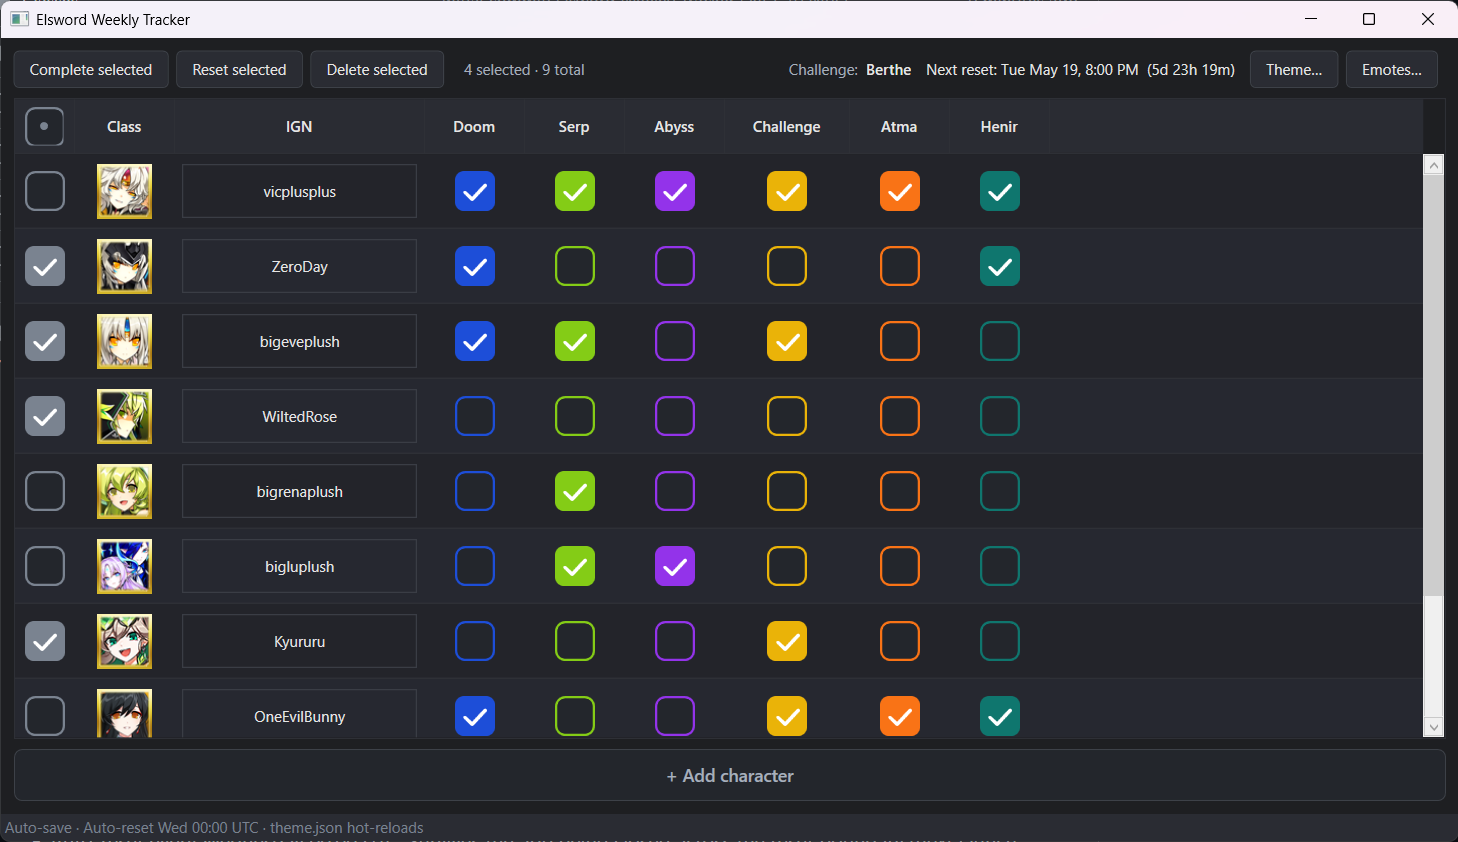
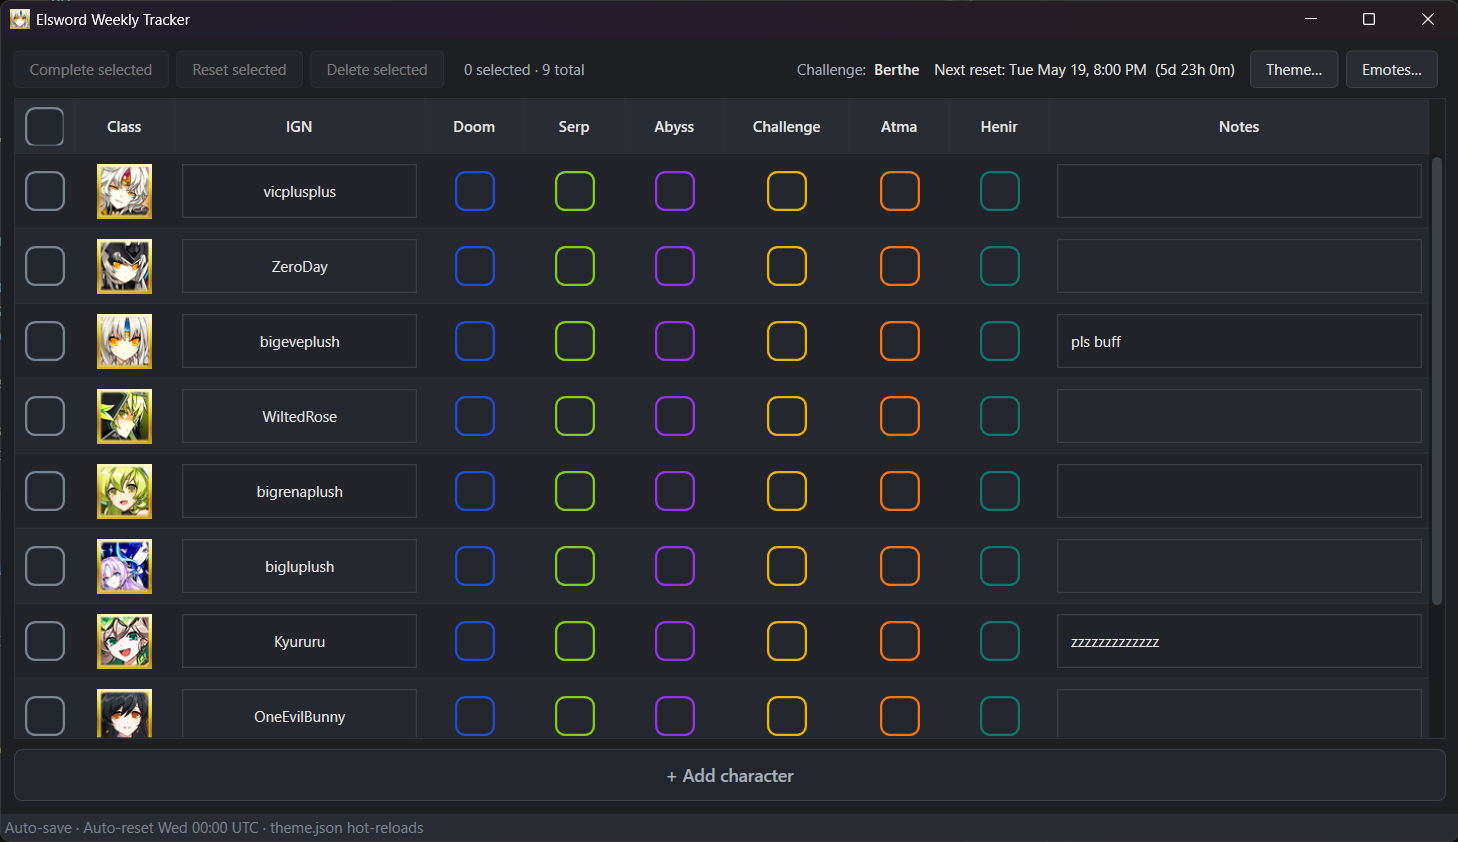
Dark title bar (DWM) + dark scrollbar style; refresh screenshot
- MainWindow.OnSourceInitialized calls DwmSetWindowAttribute with
  DWMWA_USE_IMMERSIVE_DARK_MODE so the Win11 title bar matches the
  app's dark chrome (silent no-op on older Windows)
- New Window-scoped Style TargetType="ScrollBar" with rounded thumb
  and dark track, plus matching Thumb / page-button styles. Replaces
  the bright default Aero rail that clashed with the grid
- docs/screenshot.png updated to reflect the current look (Notes
  column populated, dark titlebar)

diff --git a/ElsTracker/MainWindow.xaml b/ElsTracker/MainWindow.xaml
@@ -13,6 +13,102 @@
         <BooleanToVisibilityConverter x:Key="BoolToVis"/>
         <conv:InverseBoolToVisibilityConverter x:Key="InvBoolToVis"/>
 
+        <!-- Dark scrollbar thumb -->
+        <Style x:Key="DarkScrollThumb" TargetType="Thumb">
+            <Setter Property="OverridesDefaultStyle" Value="True"/>
+            <Setter Property="Focusable" Value="False"/>
+            <Setter Property="IsTabStop" Value="False"/>
+            <Setter Property="Template">
+                <Setter.Value>
+                    <ControlTemplate TargetType="Thumb">
+                        <Border x:Name="Body" Background="#3D4148" CornerRadius="4" Margin="2"/>
+                        <ControlTemplate.Triggers>
+                            <Trigger Property="IsMouseOver" Value="True">
+                                <Setter TargetName="Body" Property="Background" Value="#525762"/>
+                            </Trigger>
+                            <Trigger Property="IsDragging" Value="True">
+                                <Setter TargetName="Body" Property="Background" Value="#6B7180"/>
+                            </Trigger>
+                        </ControlTemplate.Triggers>
+                    </ControlTemplate>
+                </Setter.Value>
+            </Setter>
+        </Style>
+
+        <!-- Transparent page-up/page-down repeat buttons -->
+        <Style x:Key="DarkScrollPageButton" TargetType="RepeatButton">
+            <Setter Property="OverridesDefaultStyle" Value="True"/>
+            <Setter Property="Focusable" Value="False"/>
+            <Setter Property="IsTabStop" Value="False"/>
+            <Setter Property="Background" Value="Transparent"/>
+            <Setter Property="Template">
+                <Setter.Value>
+                    <ControlTemplate TargetType="RepeatButton">
+                        <Border Background="Transparent"/>
+                    </ControlTemplate>
+                </Setter.Value>
+            </Setter>
+        </Style>
+
+        <!-- Dark scrollbar -->
+        <Style TargetType="ScrollBar">
+            <Setter Property="Background" Value="#1A1C20"/>
+            <Setter Property="Foreground" Value="#3D4148"/>
+            <Setter Property="SnapsToDevicePixels" Value="True"/>
+            <Style.Triggers>
+                <Trigger Property="Orientation" Value="Vertical">
+                    <Setter Property="Width" Value="12"/>
+                    <Setter Property="MinWidth" Value="12"/>
+                    <Setter Property="Template">
+                        <Setter.Value>
+                            <ControlTemplate TargetType="ScrollBar">
+                                <Grid Background="{TemplateBinding Background}">
+                                    <Track x:Name="PART_Track" IsDirectionReversed="True">
+                                        <Track.DecreaseRepeatButton>
+                                            <RepeatButton Command="ScrollBar.PageUpCommand"
+                                                          Style="{StaticResource DarkScrollPageButton}"/>
+                                        </Track.DecreaseRepeatButton>
+                                        <Track.Thumb>
+                                            <Thumb Style="{StaticResource DarkScrollThumb}"/>
+                                        </Track.Thumb>
+                                        <Track.IncreaseRepeatButton>
+                                            <RepeatButton Command="ScrollBar.PageDownCommand"
+                                                          Style="{StaticResource DarkScrollPageButton}"/>
+                                        </Track.IncreaseRepeatButton>
+                                    </Track>
+                                </Grid>
+                            </ControlTemplate>
+                        </Setter.Value>
+                    </Setter>
+                </Trigger>
+                <Trigger Property="Orientation" Value="Horizontal">
+                    <Setter Property="Height" Value="12"/>
+                    <Setter Property="MinHeight" Value="12"/>
+                    <Setter Property="Template">
+                        <Setter.Value>
+                            <ControlTemplate TargetType="ScrollBar">
+                                <Grid Background="{TemplateBinding Background}">
+                                    <Track x:Name="PART_Track">
+                                        <Track.DecreaseRepeatButton>
+                                            <RepeatButton Command="ScrollBar.PageLeftCommand"
+                                                          Style="{StaticResource DarkScrollPageButton}"/>
+                                        </Track.DecreaseRepeatButton>
+                                        <Track.Thumb>
+                                            <Thumb Style="{StaticResource DarkScrollThumb}"/>
+                                        </Track.Thumb>
+                                        <Track.IncreaseRepeatButton>
+                                            <RepeatButton Command="ScrollBar.PageRightCommand"
+                                                          Style="{StaticResource DarkScrollPageButton}"/>
+                                        </Track.IncreaseRepeatButton>
+                                    </Track>
+                                </Grid>
+                            </ControlTemplate>
+                        </Setter.Value>
+                    </Setter>
+                </Trigger>
+            </Style.Triggers>
+        </Style>
+
         <!-- Themed weekly checkbox -->
         <Style x:Key="WeeklyCheck" TargetType="CheckBox">
             <Setter Property="HorizontalAlignment" Value="Center"/>

diff --git a/ElsTracker/MainWindow.xaml.cs b/ElsTracker/MainWindow.xaml.cs
@@ -1,8 +1,10 @@
+using System.Runtime.InteropServices;
 using System.Windows;
 using System.Windows.Controls;
 using System.Windows.Controls.Primitives;
 using System.Windows.Data;
 using System.Windows.Input;
+using System.Windows.Interop;
 using System.Windows.Media;
 using System.Windows.Threading;
 using ElsTracker.Services;
@@ -14,6 +16,24 @@ public partial class MainWindow : Window
 {
     private readonly MainViewModel _vm;
     private readonly DispatcherTimer _timer;
+
+    // DWM attribute for dark title bar (Win10 2004+ / Win11).
+    private const int DWMWA_USE_IMMERSIVE_DARK_MODE = 20;
+
+    [DllImport("dwmapi.dll", PreserveSig = true)]
+    private static extern int DwmSetWindowAttribute(IntPtr hwnd, int attr, ref int value, int size);
+
+    protected override void OnSourceInitialized(EventArgs e)
+    {
+        base.OnSourceInitialized(e);
+        try
+        {
+            var hwnd = new WindowInteropHelper(this).Handle;
+            int useDark = 1;
+            DwmSetWindowAttribute(hwnd, DWMWA_USE_IMMERSIVE_DARK_MODE, ref useDark, sizeof(int));
+        }
+        catch { /* older Windows: silently fall back to light chrome */ }
+    }
 
     public MainWindow()
     {